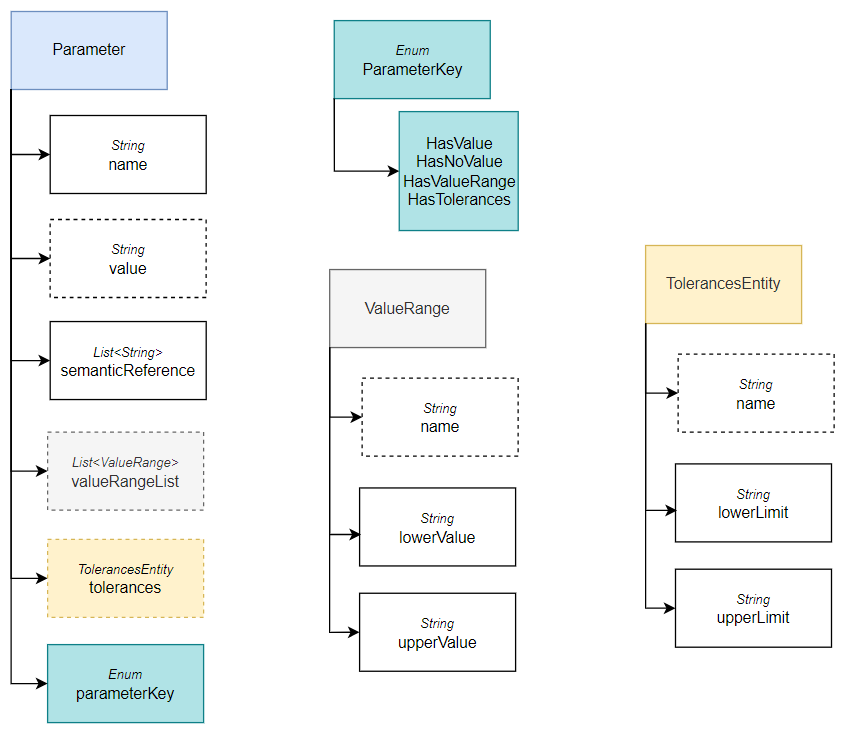
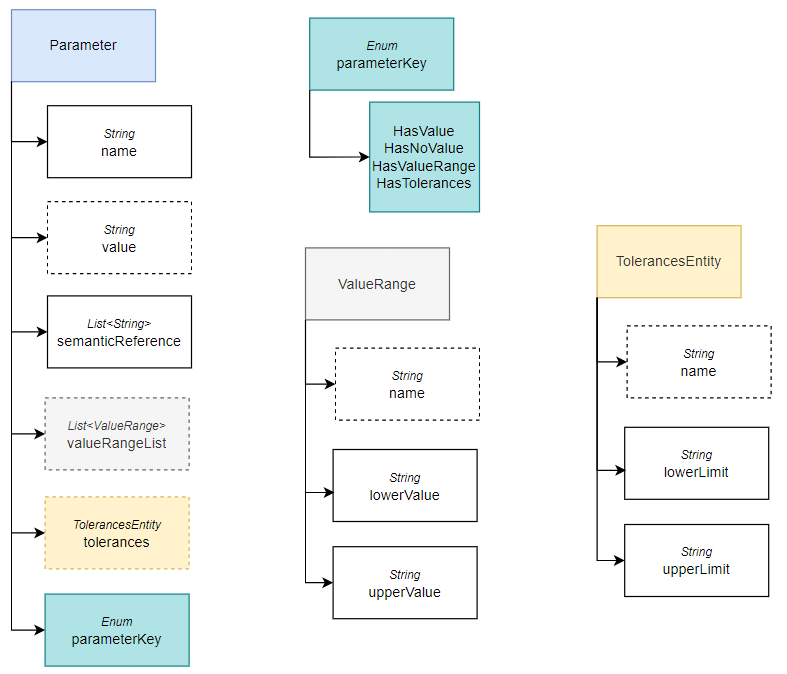
fix grammar, errors, validate json and images in readme.md, remove spaces and provide prefered names in human readable form

diff --git a/io.catenax.shared.bill_of_process/1.0.0/README.md b/io.catenax.shared.bill_of_process/1.0.0/README.md
@@ -1,7 +1,7 @@
 # Bill of Process Shared Aspect Model
 
 The bill of process aspect model is a data model which can be utilized to exchange information about a product's manufacturing process between partners.
-The purpose of this model is to specify an extended precedence graph that includes the parameter flow between single process steps
+The purpose of this model is to specify an extended precedence graph that features the parameter flow between single process steps.
 Since it is not part of an individual Catena-X standard, additional information about its application is provided with this README.md file.
 The model itself is defined as a shared aspect to be included into other aspect models and will be used in the Catena-X Standard Request for Quotation.
 Besides, the bill of process aspect model is referenced within the production tracking data model of the Shop Floor Information Service,
@@ -18,33 +18,33 @@ The bill of process data model defines a set of mandatory properties to provide 
     <img src="images/img.png">
 </p>
 
-At the top level, the BillOfProcess entity provides a version that represents the version of the data model, a unique identifier for the bill of process, and a name for the product 
-whose manufacturing process is specified within the bill of process data model. In addition, a productVersion can be 
+At the top level, the BillOfProcess entity provides a property version that represents the version of the data model, a unique identifier for the bill of process, and a name for the product 
+whose manufacturing process is specified. In addition, a productVersion can be 
 specified to distinguish between different product variants, such as the same product in different colors. The BillOfProcess entity also
 contains a property process that contains a list with all process steps. These steps may be provided in any given order, 
-since the relation between them are handled internally within the ProcessStep entity. However, each processStep that is part of the 
+since the relation between them is handled internally within the ProcessStep entity. However, each processStep instance that is part of the 
 precedence graph has to be modeled explicitly. In consequence, it is not possible to define and reuse generic process steps, 
 e.g. a transport process step, that occurs on multiple positions 
 of the precedence graph. Instead, an individual process step has to be modeled for each transport step within the precedence graph.
 
 ## Process Step 
 
-Process steps are listed within the process property of the bill of process entity. Each process step provides a unique identifier and refers 
-a manufacturing capability that has to be performed on a product to accomplish the corresponding process step. 
+Process steps are listed within the process property of the bill of process entity. Each process step provides a unique identifier and refers to
+a manufacturing capability that must be performed on a product to accomplish the corresponding process step. 
 This capabilityReference must point to an instance of the Manufacturing Capability aspect model that is defined in the
-namespace io.catenax.manufacturing_capability. In addition, each process step can feature an optional set of input- and output parameters.
-The corresponding entity for parameters and how to use them is explained in the section Parameter.
+namespace io.catenax.manufacturing_capability. In addition, each process step can feature an optional set of input and output parameters.
+The corresponding entity for parameters and how to use them is explained in the section [Parameter](#Parameter).
 
 
 <p align="center">
     <img src="images/img_2.png">
 </p>
 
-The optional property precedenceRelation allows the specification of dependencies to subsequent process steps. More details on the how 
-to span the precedence graph from the single process steps can be found in the section Precedence Relation. In addition, 
-a process step can feature a set of childprocessSteps, in order to break down process steps into smaller process steps. 
-For example, a process step transport can be specified with the childprocessSteps pick, 
-move and place. These process steps are referenced to by their the associated processStepIdentifiers.
+The optional property precedenceRelation allows the specification of dependencies to subsequent process steps. More details on how 
+to span the precedence graph from the single process steps can be found in the section [Precedence Relation](#Precedence-Relation). 
+In addition, a process step can feature a set of childProcessSteps, to break it down into smaller process steps. 
+For example, a process step transport can be specified with the childProcessSteps pick, 
+move and place. These process steps are referenced by their associated processStepIdentifiers.
 
 ```
 #example relation between a processStep and its childProcessSteps
@@ -109,7 +109,7 @@ Process steps that do not occur directly in the precedence graph, but are refere
 labeled with the processStepType instance isSubProcessElement. In contrast to process steps that are 
 concrete elements of the precedence graph, process steps labeled with isSubProcessElement can be defined in a generic manner, 
 allowing them to be associated with multiple parent process steps. In addition, defined input and output parameters for 
-childProcessSteps must match the input- and output parameters of the parent process step. An example of a generic set of
+childProcessSteps must match the input and output parameters of the parent process step. An example of a generic set of
 childProcessSteps with a parameter flow is illustrated below.
 
 ```
@@ -284,7 +284,7 @@ childProcessSteps with a parameter flow is illustrated below.
 
 Precedence relations are specified to link the process steps and thus, create the precedence graph of the process. 
 In this context, precedence relations of a process step always point to its direct successors. However, since precedence 
-relations can contain conditions, such as alternatives between successors, a set of successors, or successors that have to 
+relations can contain conditions, such as alternatives between successors, a set of successors or successors that must 
 be executed in parallel, the property precedenceRelation consists of three nested lists, that are utilized for each of 
 these three cases.
 
@@ -294,7 +294,7 @@ these three cases.
 
 ### Case: Arbitrary Order
 
-In this scenario, step 1 has the successors 2 and 3 which can be executed in an arbitrary order. Regardless of their execution order,
+In this scenario, step 1 has successors 2 and 3 which can be executed in an arbitrary order. Regardless of their execution order,
 the process continues with step 4, so that the resulting process sequences are either 1 -> 2 -> 3-> 4 or 1 -> 3 -> 2 -> 4.
 
 <p align="center">
@@ -380,7 +380,7 @@ with step 4, so that the resulting process sequence is 1 -> 2,3 -> 4.
 <img src="images/img_5.png">
 </p>
 
-Since step 2 and step 3 have to be completed before starting step 4, both refer step 4 as their successor.
+Since step 2 and step 3 must be completed before starting step 4, both refer to step 4 as their successor.
 ```
 # example  parallel process steps
 {
@@ -553,13 +553,13 @@ The parameter entity is used to specify input or output parameters for a process
 To enable a common understanding of the exchanged parameter each parameter entity
 has a semanticReference that contains a list with at least one element. Such a list element refers to a globally defined semantic 
 that characterizes this parameter, e.g. a definition in the EClass Standard.
-This semanticReference provides a meaning to the parameter, so that the partners that exchange the bill of process data model, 
-are able to interpret the parameter. Since there may be multiple semantics that
-define the underlying parameter, a user can reference multiple semantic within the list.
+This semanticReference provides a meaning to the parameter, so that the partners, who exchange the bill of process data model, 
+are able to interpret them. Since there may be multiple semantics that
+define the underlying parameter, a user can reference multiple semantics within the list.
 
-The bill of process data model provides four possibilities to specify parameters for process steps.
-The expression of the parameter is based on the value of the property ParameterKey. Depending on the case, the optional
-properties of the parameter entity become mandatory.
+The bill of process data model provides four possibilities to specify parameters.
+The expression of the parameter is based on the value of the property parameterKey. Depending on the case, the optional
+properties of the Parameter entity become mandatory.
 
 <p align="center">
     <img src="images/img_1.png">
@@ -601,7 +601,7 @@ provide parameters, whose values are not pre-defined, but are a result of a proc
 This case describes a predefined parameter within the bill of process data model. Since parameters are subjects of change during process steps,
 only inputParameters for process steps should be defined with a concrete value. In this case, the optional value property of the parameter entity becomes mandatory. 
 The remaining optional properties should not be used. The concrete value of a parameter should be provided as a JSON string, 
-so that multidimensional parameters can be specified within one parameter entity.
+so that multidimensional parameters can be specified within one parameter entity. In case of a one dimensional parameter, its value can be directly provided as a string.
 
 ```
 # example  multidimensional parameter Volume/fill quantity
@@ -715,7 +715,7 @@ specifies the name of the field within the multidimensional parameter.
 
 ### Case 4: HasTolerances
 
-This case is similar to the HasValueRange case, but instead of allowing to specify a number of value ranges 
+This case is similar to the HasValueRange case, but instead of allowing to specify several value ranges 
 for a parameter, it only enables to define a single tolerance for a parameter value, or a single tolerance for each field of 
 a multidimensional parameter. For the latter, the optional property name of the TolerancesEntity becomes mandatory.
 
